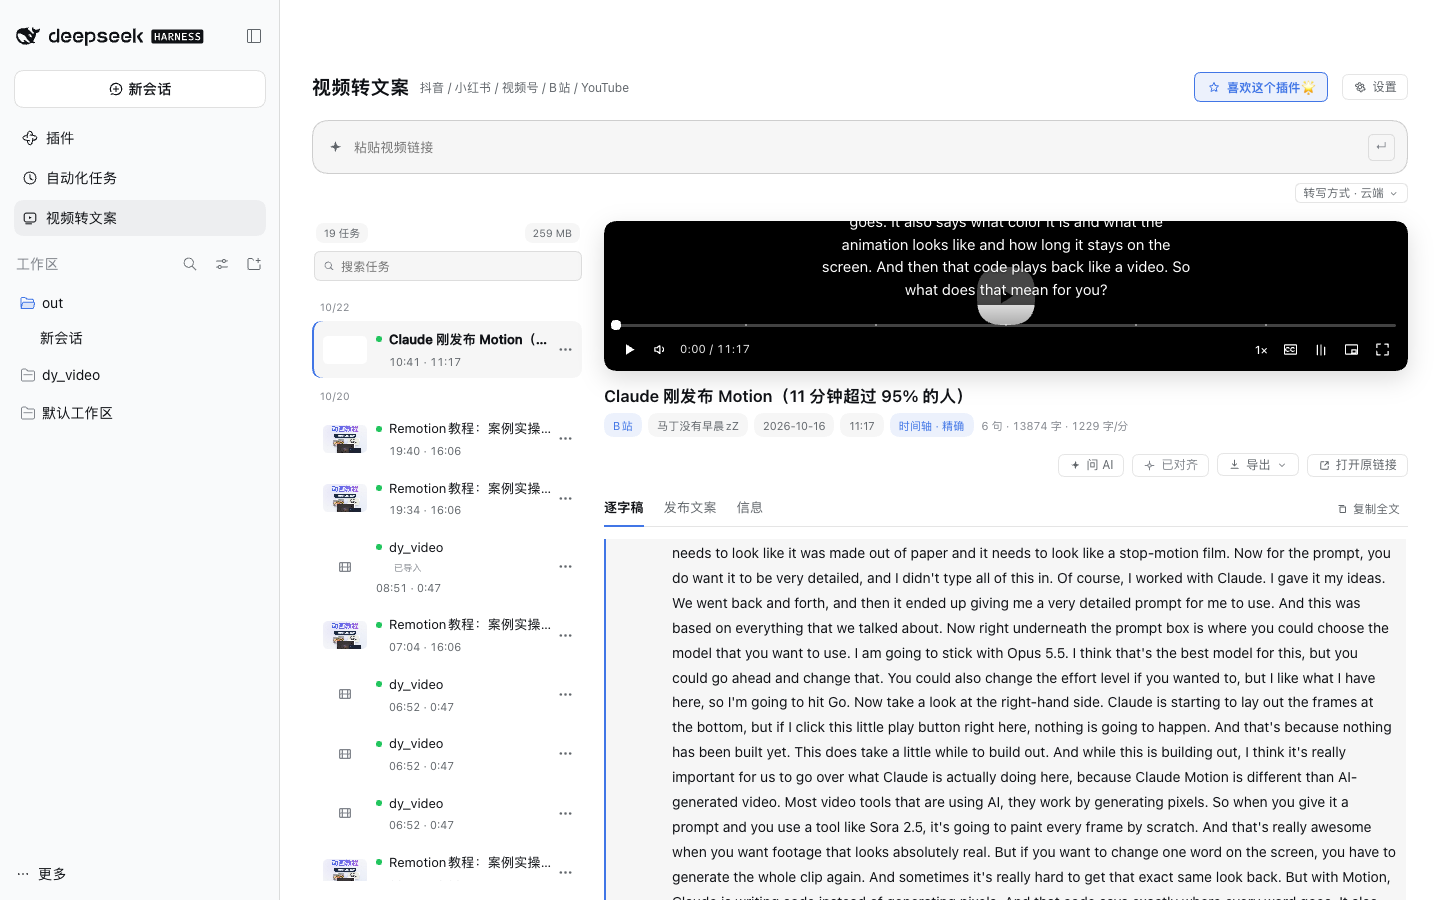
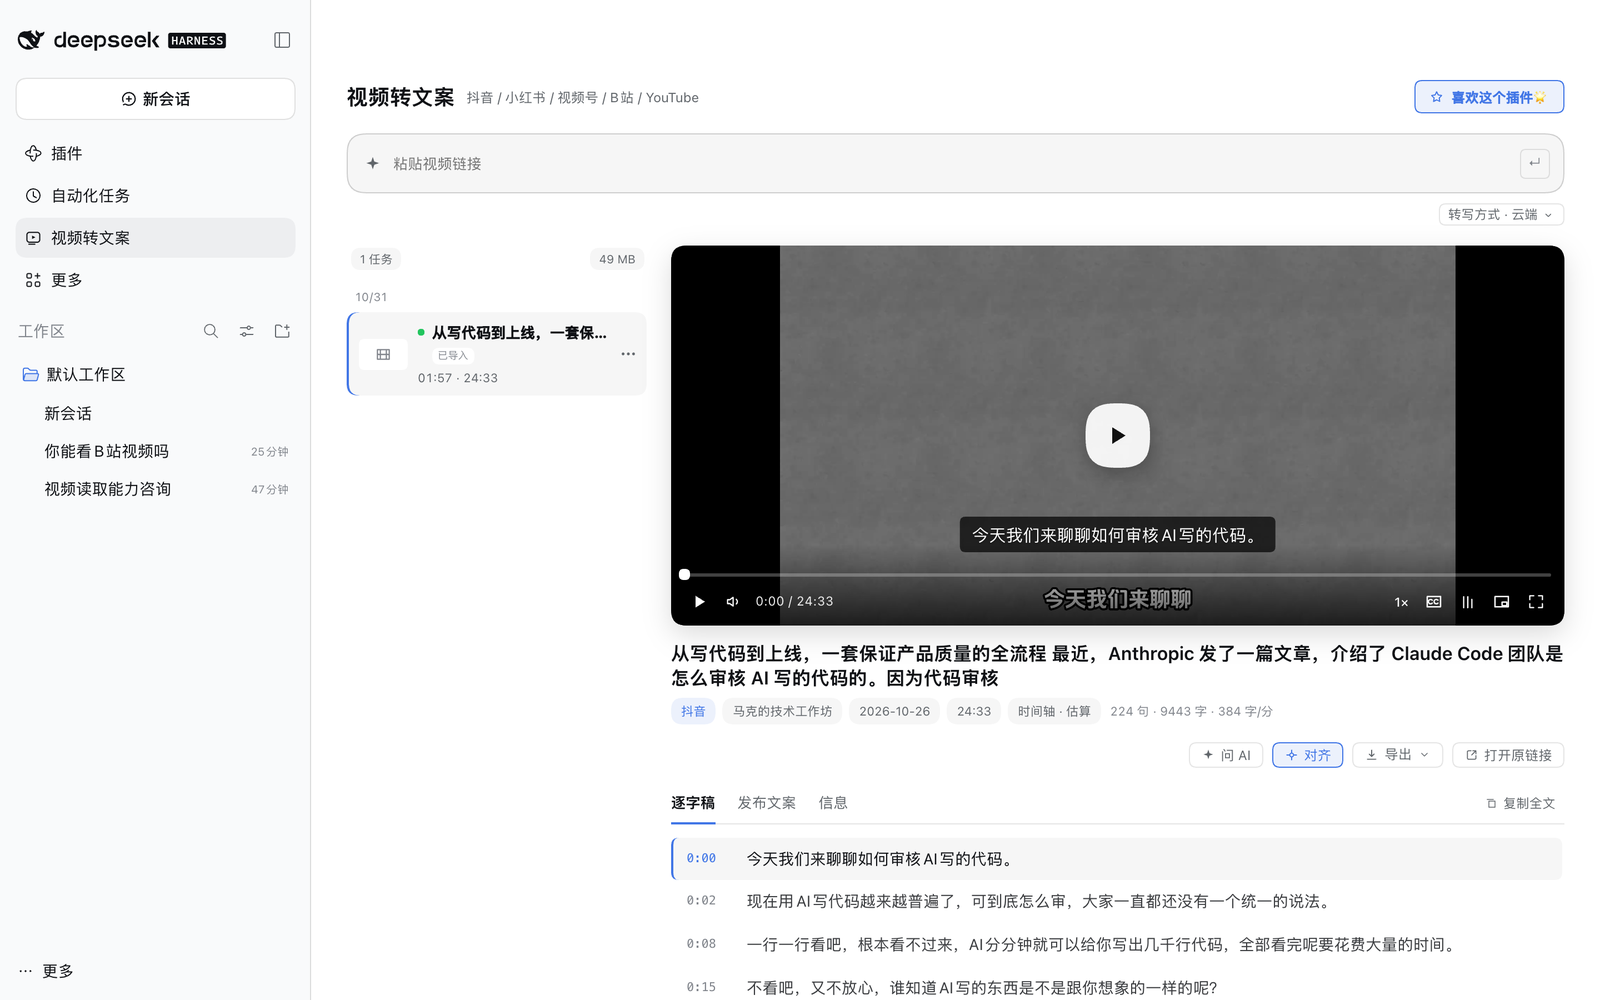
docs: 更新面板截图、新增插件页截图；插件描述修正为两行组件说明

diff --git a/CHANGELOG.md b/CHANGELOG.md
@@ -33,6 +33,7 @@
 - Settings 左侧导航里该 section 的图标由宿主按 section id 固定映射（未知 id 回退齿轮），第三方插件无法自定义；插件侧不再往页面标题加图标。
 - 设置页「保存」按钮改用与主输入区一致的规格（高 28 / 字号 12 / 字重 500 / 圆角 8）。
 - README 补上 agent 能力：顶部简介、能力表、以及「给 Agent 用」的 30 秒上手示例。
+- 截图更新：`docs/preview.png` 换成新面板（无设置入口），新增 `docs/preview-plugins.png`（插件页两行组件）；插件页的描述改由 `locale/*.json` 的 `meta.description` 提供。
 - 设置字段说明缩短为一行（原来每条两三句），插件描述改为「侧栏工作台 + 给 agent 的视频理解工具」。
 - 面板自带设置弹层去掉可见滚动条（仍可滚动）。
 - 设置页按用途分组：**云端转写**（provider / model / base / key / 分片）、**本地转写**（模型 + 缓存下载）、**平台接入**（DouK / 小红书服务）、**登录与风控**（Cookie / PO token）；每组一行说明，字段提示全部走 ⓘ 气泡，输入框统一全宽。

diff --git a/README.en.md b/README.en.md
@@ -90,6 +90,8 @@ Behaviour:
 - `mode: shots` keeps only frames whose picture actually changed (slides, screens, subtitle switches) using dHash, not ffmpeg's `scene` filter.
 - Cache lives in `$DSH_HOME/data/dsh-video-inspect/<vid>/`, separate from the panel's `out/`.
 - Disabling the panel row keeps both tools working.
+
+![Plugins page](docs/preview-plugins.png)
 - To hide only the sidebar entry, turn off the `showEntry` option of `dsh-video2text` on the DSH **Plugins** page and reload; the agent tools are unaffected.
 - Accounts and other settings live in **Settings → Video to text**; the plugin page keeps only the `showEntry` switch.
 

diff --git a/README.md b/README.md
@@ -184,6 +184,8 @@ cp -R skills/video2text/scripts ~/.claude/skills/video2text/
 - 只想隐藏侧栏入口、不想动插件行：在 DSH 的 **Plugins** 页找到 `dsh-video2text`，把配置项 `showEntry` 关掉，刷新页面生效——agent 工具不受影响。
 - 登录态与各项设置统一在 **Settings → 视频转文案**；插件页只留 `showEntry` 一个开关。
 
+![插件页](docs/preview-plugins.png)
+
 ```yaml
 # cordis.patch.yml 里两行，可分别开关
 - insert:
